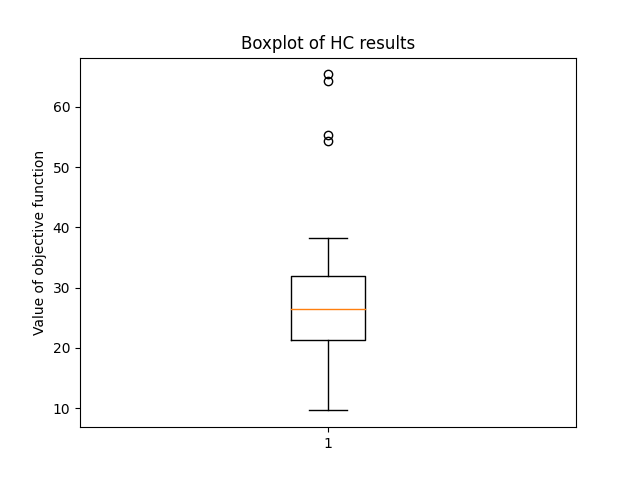
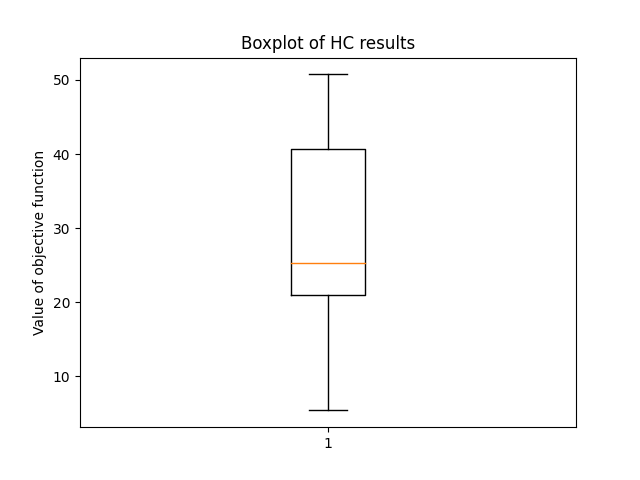
add(+): sh file

diff --git a/first-pratical-work/src/base/base.py b/first-pratical-work/src/base/base.py
@@ -1,0 +1,63 @@
+import pandas as pd
+import sys
+
+from metrics.metrics import Metrics
+from core.packages.hill_climping import HillClimbing
+from core.packages.ils import ILS
+from export.export import Export
+
+import numpy as np
+
+class Base:
+    def __init__(self,csv_file_name:str)->None:
+        self.csv_file_name = csv_file_name
+
+    def run(self):
+        base = pd.read_csv(self.csv_file_name)
+
+        evaluate = base['evaluate'][0]
+        
+        x_low=int(base['x_low'][0])
+        x_high=int(base['x_high'][0])
+        y_low=int(base['y_low'][0])
+        y_high=int(base['y_high'][0])
+
+        metrics_hc = Metrics()
+        metrics_ils = Metrics()
+
+        # number_text_to_title = 1 if self.csv_file_name.split('.')[0] == 'a' or 'b' else 2 
+
+        title_boxplot_ils = 'Boxplot ILS - Evaluate-'+ self.csv_file_name.split('.')[0]
+        file_name_ils = 'ILS-' + self.csv_file_name.split('.')[0]
+        
+        title_boxplot_hc = 'Boxplot HC - Evaluate' + self.csv_file_name.split('.')[0]
+        file_name_hc = 'HC-' + self.csv_file_name.split('.')[0]
+        
+        export_hill_climbing = Export(metrics_hc,"HC",title_boxplot_hc,'Value of objective function',file_name_hc)
+        export_ils = Export(metrics_ils,"ILS",title_boxplot_ils,'Value of objective function',file_name_ils)
+        
+        hill_climbing = HillClimbing(x_low=x_low,x_high=x_high,y_low=y_low,y_high=y_high,type=evaluate)
+        ils = ILS(
+            step_size=1,
+            max_iterations=100, 
+            max_restarts=5,
+            x_low=x_low, 
+            x_high=x_high, 
+            y_low=y_low,
+            y_high=y_high,
+            type=evaluate
+        )
+
+        for i    in range(30):
+            result = hill_climbing.heuristic()    
+            metrics_hc.insert_result(result)
+            problem, value = ils.ils()
+            metrics_ils.insert_result(value)
+
+        export_hill_climbing.gerenate()
+        export_ils.gerenate()
+        
+def bootstrap():
+
+    base = Base(csv_file_name=sys.argv[2])
+    base.run()

diff --git a/first-pratical-work/src/main.py b/first-pratical-work/src/main.py
@@ -1,28 +1,37 @@
-from metrics.metrics import Metrics
-from core.packages.hill_climping import HillClimbing
-from core.packages.ils import ILS
-from export.export import Export
-
-import numpy as np
+from base.base import bootstrap
 
 if __name__ == "__main__":
+    bootstrap()
 
+
+    ''' 
     # Executa o algoritmo 30 vezes
     metrics_hc = Metrics()
     metrics_ils = Metrics()
-    hill_climbing = HillClimbing(-5, 5, -5, 5,"first")
     export_hill_climbing = Export(metrics_hc,'Boxplot of HC results','Value of objective function','HC')
     export_ils = Export(metrics_ils,'Boxplot of ILS results','Value of objective function','ILS')
 
-    ils = ILS(step_size=1, max_iterations=100, max_restarts=5,type="first")
+    hill_climbing = HillClimbing(-5, 5, -5, 5,"first")
+
+    ils = ILS(
+        step_size=1,
+        max_iterations=1000, 
+        max_restarts=5,
+        x_low=-5, 
+        x_high=5, 
+        y_low=-5, 
+        y_high=5,
+        type="first"
+    )
 
     for i in range(30):
         result = hill_climbing.heuristic()    
         metrics_hc.insert_result(result)
-        solution, value = ils.ils(start_point=(np.random.uniform(-5, 5), np.random.uniform(-5, 5)))
+        solution, value = ils.ils()
         metrics_ils.insert_result(value)
         
         # print(f"Iteração {i+1}: {result}")
     
     export_hill_climbing.gerenate()
     export_ils.gerenate()
+    '''

diff --git a/first-pratical-work/src/export/export.py b/first-pratical-work/src/export/export.py
@@ -3,18 +3,19 @@ from prettytable import PrettyTable
 from metrics.metrics import Metrics
 
 class Export:
-    def __init__(self,metrics:Metrics,title_boxplot:str,label_boxplot:str,file_name:str)->None:
+    def __init__(self,metrics:Metrics,algorithm:str,title_boxplot:str,label_boxplot:str,file_name:str)->None:
         self.metrics = metrics
         self.title_boxplot = title_boxplot
         self.label_boxplot = label_boxplot
         self.file_name = file_name
+        self.algorithm = algorithm
 
     def gerenate(self):
         # Criar a tabela
         table = PrettyTable()
-        table.field_names = ["Mean", "Min", "Max","STD"]
+        table.field_names = ["Algoritmo","Mínimo", "Máximo", "Média","Desvio-padrão"]
         # Adicionar dados à tabela
-        table.add_row([self.metrics.mean(),self.metrics.min(),self.metrics.max(),self.metrics.standard_deviation()])
+        table.add_row([self.algorithm,self.metrics.min(),self.metrics.max(),self.metrics.mean(),self.metrics.standard_deviation()])
 
         # Imprimir a tabela
         print(table)

diff --git a/first-pratical-work/src/core/packages/ils.py b/first-pratical-work/src/core/packages/ils.py
@@ -4,13 +4,19 @@ from typing import Tuple
 import numpy as np
 
 class ILS:
-    def __init__(self, step_size: float, max_iterations: int, max_restarts: int, type: str):
+    def __init__(self, step_size: float, max_iterations: int, max_restarts: int, x_low, x_high, y_low, y_high,type: str):
         self.step_size = step_size
         self.max_iterations = max_iterations
         self.max_restarts = max_restarts
+        self.x_low = x_low
+        self.x_high = x_high
+        self.y_low = y_low
+        self.y_high = y_high
         self.evalute = Evaluate(type)
 
-    def ils(self, start_point: Tuple[float, float]) -> Tuple[float, float]:
+    def ils(self) -> Tuple[float, float]:
+        start_point = (np.random.uniform(self.x_low, self.x_high), np.random.uniform(self.y_low, self.y_high))
+        
         best_solution = start_point
         best_value = self.evalute.math_evaluate(start_point[0],start_point[1])
         current_solution = start_point
